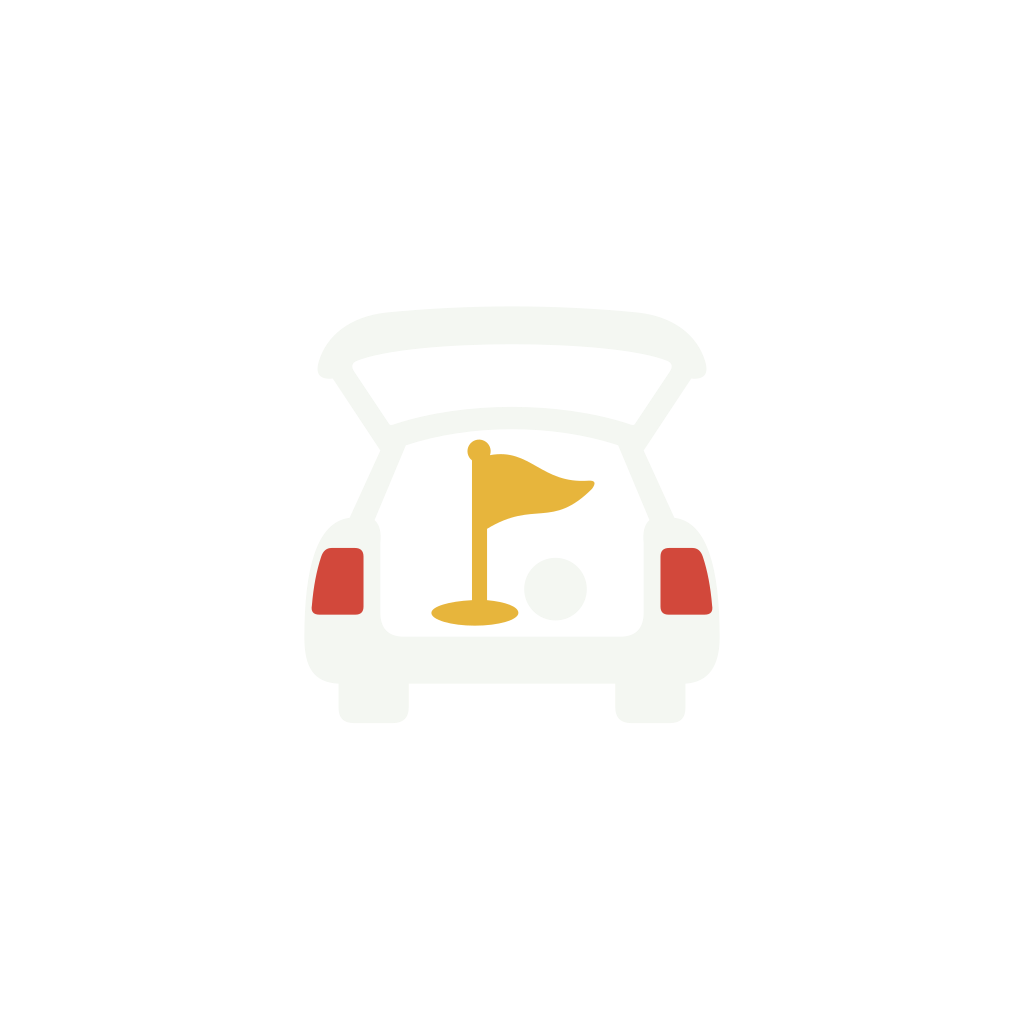
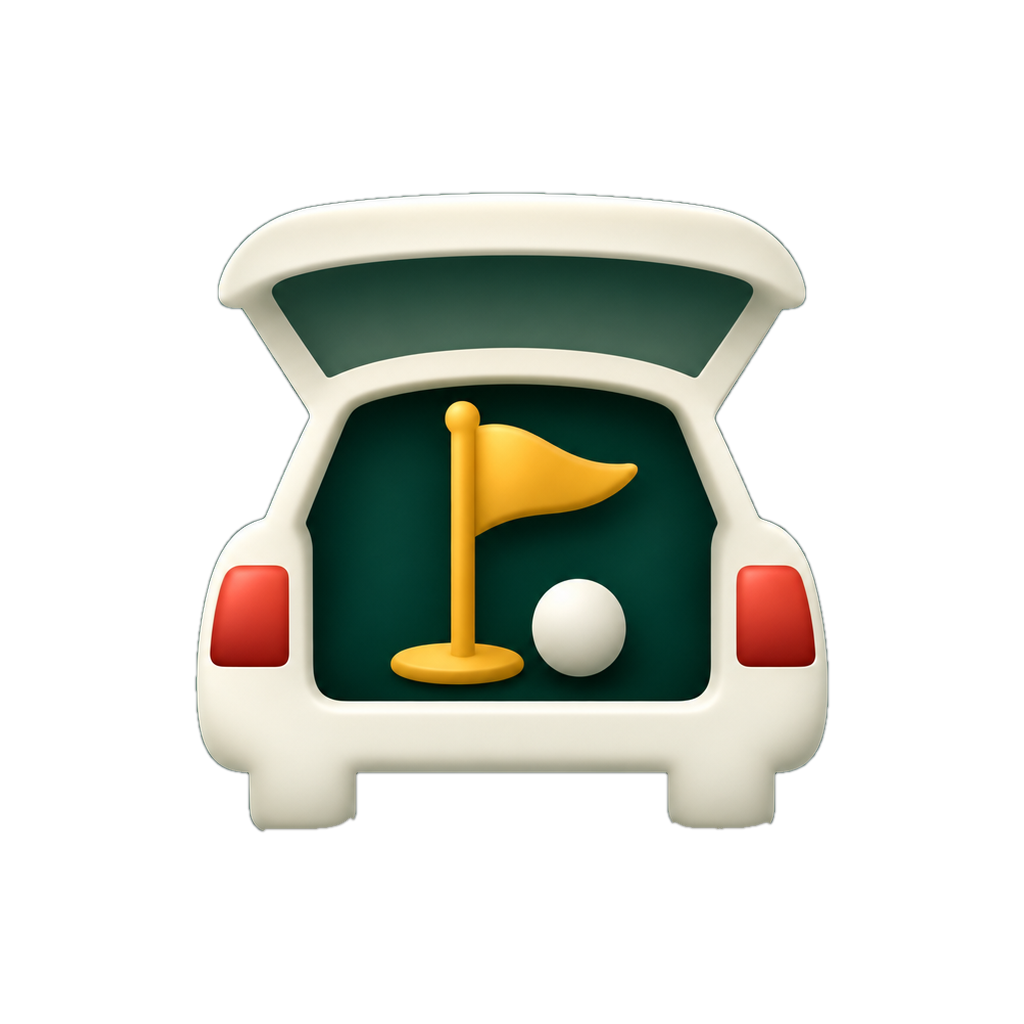
feat(brand): ship the soft 3D trunk mark and embossed Home wordmark
Take A, as approved: the dimensional cream car replaces the flat glyph.

- Icons: icon-192/512, both maskables and apple-touch-icon are the take-A
  cuts, opaque full squares on the sampled felt #023d33 (no baked corners).
- favicon.svg / app-icon.svg: vector dimensional mark (body gradient, lid
  shading, cavity darkening, gold flag, lit ball, taillight gradient, soft
  shadow) on a #023d33 rx=112 tile, with prefixed gradient/filter IDs.
- TrunkMark renders public/mark-3d.png, the take-A cut-out; the splash shows
  the same image so it appears before any script runs.
- Home: mark at 42px, the word in its own span with the treatment-A emboss,
  inverted for dark mode.
- docs/brand: icon-1024 and the Capacitor inputs from take A.

Changed region(s): [[0.1875, 0.1875, 0.8125, 0.8125]]

diff --git a/index.html b/index.html
@@ -79,11 +79,19 @@
         align-items: baseline;
         gap: 0.25em;
       }
-      #splash .mark svg {
-        /* trunk-mark.svg's viewBox is 744×754; Oswald's cap height at 3rem is
-           about 39px, and the mark stands about 15% taller. */
-        width: 44px;
-        height: 45px;
+      #splash .mark img {
+        /* mark-3d.png is 508×512. Oswald's cap height at 3rem is about 39px;
+           the 3D mark carries a little shadow and padding inside its frame,
+           so it is drawn at 48px to stand about 15% taller than the caps. */
+        width: 47px;
+        height: 48px;
+        flex-shrink: 0;
+        filter: drop-shadow(0 3px 6px rgba(0, 0, 0, 0.35));
+      }
+      #splash .mark span {
+        /* Cream word on the felt: a soft shadow only, not Home's green-ink
+           emboss, which is for light grounds. */
+        text-shadow: 0 2px 8px rgba(0, 0, 0, 0.3);
       }
       #splash .sub {
         font-size: 0.9rem;
@@ -112,15 +120,10 @@
     <div id="root"></div>
     <div id="splash">
       <div class="mark">
-        <!-- The Trunk mark (trunk-mark.svg): body and ball follow the cream
-             text colour, flag and taillights are fixed. -->
-        <svg viewBox="140 130 744 754" aria-hidden="true">
-          <path fill="currentColor" fill-rule="evenodd" d="M296 162Q512 141 728 162C793 169 832 203 845 246Q855 279 821 276L739 400L792 516C849 523 870 604 870 722Q870 798 811 802V844Q811 870 784 870H718Q690 870 690 842V802H334V842Q334 870 306 870H240Q213 870 213 844V802C170 800 154 774 154 722C154 604 175 523 232 516L285 400L203 276Q169 279 179 246C192 203 231 169 296 162ZM243 246Q232 252 240 264L300 354Q302 358 311 354C431 315 593 315 713 354Q722 358 724 354L784 264Q792 252 781 246C688 207 336 207 243 246ZM329 391L275 520Q288 531 285 560V679Q285 721 326 721H698Q739 721 739 679V560Q736 531 749 520L695 391C583 354 441 354 329 391Z" />
-          <path fill="#e7b53c" d="M443 658V417A20 20 0 1 1 474 408C544 395 562 458 644 452Q661 451 650 466C580 536 551 485 469 535V658C501 661 523 669 523 680C523 692 489 702 448 702S373 692 373 680C373 669 403 660 443 658Z" />
-          <circle cx="587" cy="639" r="54" fill="currentColor" />
-          <path fill="#d2483b" d="M201 568H241Q256 568 256 583V669Q256 683 242 683H180Q164 683 167 667Q171 619 183 583Q188 568 201 568Z" />
-          <path fill="#d2483b" d="M783 568H823Q836 568 841 583Q853 619 857 667Q860 683 844 683H782Q768 683 768 669V583Q768 568 783 568Z" />
-        </svg>
+        <!-- The Trunk mark, dimensional cut (public/mark-3d.png, the same
+             image as TrunkMark on Home). A plain <img> so it shows before
+             any script runs. Decorative: the word beside it is the name. -->
+        <img src="/mark-3d.png" width="47" height="48" alt="" aria-hidden="true" />
         <span>Trunk</span>
       </div>
       <div class="sub">Golf side games</div>

diff --git a/src/icons.tsx b/src/icons.tsx
@@ -23,39 +23,25 @@ const base = (size: number) => ({
 });
 
 /**
- * The Trunk brand mark ("Open Trunk"): a car seen from behind with the trunk
- * lid raised and a gold pin flag standing in it. Path data is the delivered
- * trunk-mark.svg, kept identical to the splash in index.html and the OG card
- * script. Body and ball follow currentColor so the mark tracks theme and
- * glare modes; the flag stays brand gold and the taillights stay red.
+ * The Trunk brand mark ("Open Trunk"), dimensional cut: the soft 3D cream car
+ * with its trunk lid raised, a gold pin flag and a ball inside, red
+ * taillights. This is the approved take-A art (public/mark-3d.png, cut out
+ * from docs/brand — see BRAND.md), the same image the index.html splash
+ * shows. It is a raster, so it does not follow currentColor: the cream body
+ * reads on light, dark and glare grounds alike. `size` is the height; the
+ * art is 508×512. Always decorative — the word beside it carries the name.
  */
 export const TrunkMark = ({ size = 18, className }: IconProps) => (
-  <svg
-    width={(size * 744) / 754}
+  <img
+    src={`${import.meta.env.BASE_URL}mark-3d.png`}
+    width={Math.round((size * 508) / 512)}
     height={size}
-    viewBox="140 130 744 754"
-    className={className}
+    alt=""
     aria-hidden
-  >
-    <path
-      fill="currentColor"
-      fillRule="evenodd"
-      d="M296 162Q512 141 728 162C793 169 832 203 845 246Q855 279 821 276L739 400L792 516C849 523 870 604 870 722Q870 798 811 802V844Q811 870 784 870H718Q690 870 690 842V802H334V842Q334 870 306 870H240Q213 870 213 844V802C170 800 154 774 154 722C154 604 175 523 232 516L285 400L203 276Q169 279 179 246C192 203 231 169 296 162ZM243 246Q232 252 240 264L300 354Q302 358 311 354C431 315 593 315 713 354Q722 358 724 354L784 264Q792 252 781 246C688 207 336 207 243 246ZM329 391L275 520Q288 531 285 560V679Q285 721 326 721H698Q739 721 739 679V560Q736 531 749 520L695 391C583 354 441 354 329 391Z"
-    />
-    <path
-      fill="#e7b53c"
-      d="M443 658V417A20 20 0 1 1 474 408C544 395 562 458 644 452Q661 451 650 466C580 536 551 485 469 535V658C501 661 523 669 523 680C523 692 489 702 448 702S373 692 373 680C373 669 403 660 443 658Z"
-    />
-    <circle cx="587" cy="639" r="54" fill="currentColor" />
-    <path
-      fill="#d2483b"
-      d="M201 568H241Q256 568 256 583V669Q256 683 242 683H180Q164 683 167 667Q171 619 183 583Q188 568 201 568Z"
-    />
-    <path
-      fill="#d2483b"
-      d="M783 568H823Q836 568 841 583Q853 619 857 667Q860 683 844 683H782Q768 683 768 669V583Q768 568 783 568Z"
-    />
-  </svg>
+    decoding="async"
+    draggable={false}
+    className={className}
+  />
 );
 
 /** Golf flag on its pole. */

diff --git a/src/styles/03-home.css b/src/styles/03-home.css
@@ -20,6 +20,31 @@
   justify-content: center;
   gap: 0.25em;
 }
+/* Treatment A: the dimensional mark lifts off the page and the word is
+   embossed — a white bevel above, a faint green edge and a soft fall below.
+   Kept on the two children rather than .logo so no effect (background-clip
+   on the word, say) can ever clip the mark. Light and glare share it. */
+.logo-mark {
+  flex-shrink: 0;
+  filter: drop-shadow(0 2px 4px rgba(11, 61, 46, 0.22));
+}
+.logo-type {
+  text-shadow:
+    0 1px 0 rgba(255, 255, 255, 0.75),
+    0 2px 0 rgba(11, 61, 46, 0.08),
+    0 8px 16px rgba(11, 61, 46, 0.12);
+}
+/* On the dark ground a white bevel reads as a glitch, so the emboss inverts:
+   only a faint highlight, the depth all in black. */
+:root.dark .logo-mark {
+  filter: drop-shadow(0 2px 4px rgba(0, 0, 0, 0.4));
+}
+:root.dark .logo-type {
+  text-shadow:
+    0 1px 0 rgba(255, 255, 255, 0.12),
+    0 2px 0 rgba(0, 0, 0, 0.25),
+    0 8px 16px rgba(0, 0, 0, 0.35);
+}
 .tagline {
   color: var(--muted);
   margin: 4px 0 0;

diff --git a/src/screens/Home.tsx b/src/screens/Home.tsx
@@ -81,8 +81,8 @@ export function Home({
             accessible name is simply "Trunk". tabIndex so App can move focus
             here on navigation. */}
         <h1 className="logo" tabIndex={-1}>
-          <TrunkMark size={34} />
-          Trunk
+          <TrunkMark size={42} className="logo-mark" />
+          <span className="logo-type">Trunk</span>
         </h1>
         <p className="tagline">Settle it at the trunk.</p>
       </header>
